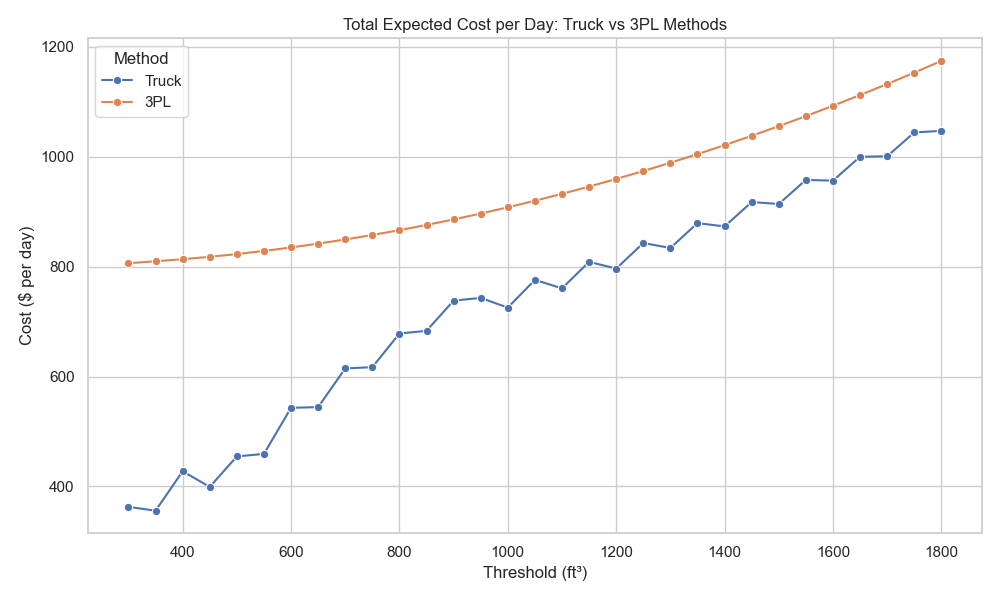
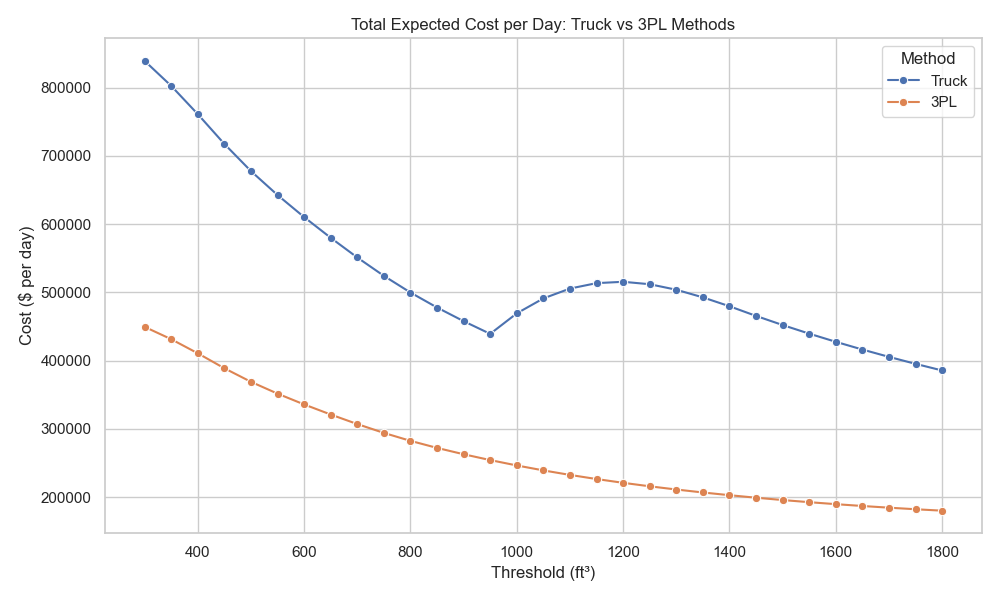
added costing and visualization for 3

diff --git a/get_cost_for_matrix.py b/get_cost_for_matrix.py
@@ -1,7 +1,15 @@
 import numpy as np
 import pandas as pd
 from scipy.stats import poisson
-
+import create_threshold_matrix as cvp
+import itertools
+from itertools import product
+# Calculate volume probabilities for orders
+volume_probabilities = {}
+for i in range(1, 4):
+    # Calculate volume probabilities for the current order
+    volume_probabilities[i] = cvp.compute_volume_probabilities(i)
+    print(f"Volume probabilities for {i} orders: {volume_probabilities[i]}")
 def compute_steady_state_from_csv(csv_file, output_file="steady_state_probabilities.csv"):
     # Read the transition matrix from CSV
     df = pd.read_csv(csv_file, index_col=0)  # First column is index (states)
@@ -70,8 +78,8 @@ def calculate_holding_cost(steady_state_csv, threshold, holding_cost_per_unit):
     cycle_length = threshold / (orders_per_day * volume_per_order)
     total_holding_cost = total_holding_cost_per_day * cycle_length
 
-    # print(f"\nTotal Expected Holding Cost per Day: {total_holding_cost:.6f}")
-    return total_holding_cost
+    print(f"\nTotal Expected Holding Cost per Day: {total_holding_cost/cycle_length:.6f}")
+    return total_holding_cost_per_day
 
 def compute_truck_cost(steady_state_csv, threshold, truck_1_cost, truck_2_cost, truck_1_capacity=900, truck_2_capacity=1800):
     # Read the steady-state probabilities from CSV
@@ -83,22 +91,34 @@ def compute_truck_cost(steady_state_csv, threshold, truck_1_cost, truck_2_cost, 
         raise ValueError(f"Expected 37 states, got {len(pi)}")
     
     # Define states (inventory levels)
-    states = np.arange(0, 1850, 50)  # 0, 50, 100, ..., 1800
-    
-    cost = 0
-    for state in states:
-        lower = threshold - state
-        upper = truck_1_capacity - state
+    states = np.arange(threshold-450, threshold-49, 50)
+    possible_orders = np.arange(50, 451, 50)  # 0, 50, 100, ..., 450
+    print(f"States: {states}")
+    print(f"Orders: {possible_orders}")
+    p_orders = poisson.pmf([0, 1, 2, 3], 2)
+    p_orders[3] = 1 - sum(p_orders[:3])  # Adjust P(N=3) for cap
 
-        if lower <= state and upper >= state:
-            truck_cost = truck_1_cost
-        elif lower < state and upper < state:
-            truck_cost = truck_2_cost
-        else:
-            truck_cost = 0
-        cost += pi[int(state / 50)] * truck_cost
-    # print(f"\nTotal Expected Truck Cost per Day: {cost:.6f}")
-    return cost
+    cost = 0
+
+    for state in states:
+        for posible_order in possible_orders:
+            if state + posible_order >= threshold:
+                # Calculate the cost based on the truck capacity
+                if state <= truck_1_capacity:
+                    truck_cost = truck_1_cost
+                elif state <= truck_2_capacity:
+                    truck_cost = truck_2_cost
+                else:
+                    truck_cost = 0
+                # Calculate the expected cost
+                cost += (pi[int(state / 50)] * state + posible_order * (volume_probabilities[1].get(posible_order, 0) * p_orders[1] + volume_probabilities[2].get(posible_order, 0) * p_orders[2] + volume_probabilities[3].get(posible_order, 0) * p_orders[3])) * truck_cost
+    
+    
+    orders_per_day = (1 * p_orders[1] + 2 * p_orders[2] + 3 * p_orders[3])
+    volume_per_order = 0.3 * 50 + 0.5 * 100 + 0.2 * 150
+    cycle_length = threshold / (orders_per_day * volume_per_order)
+    cost_per_day = cost / cycle_length
+    return cost_per_day
 
 def variable_3pl_shipping_cost(steady_state_csv, variable_shipment_cost, threshold):
     # Read the steady-state probabilities from CSV
@@ -107,15 +127,33 @@ def variable_3pl_shipping_cost(steady_state_csv, variable_shipment_cost, thresho
     # Verify length
     if len(pi) != 37:
         raise ValueError(f"Expected 37 states, got {len(pi)}")
+        
     # Define states (inventory levels)
-    states = np.arange(0, 1850, 50)  # 0, 50, 100, ..., 1800
+    states = np.arange(threshold-450, threshold-49, 50)
+    print(f"States: {states}")
+    orders = np.arange(50, 451, 50)  # 0, 50, 100, ..., 450
+    print(f"Orders: {orders}")
+        
     cost = 0
+    p_orders = poisson.pmf([0, 1, 2, 3], 2)
+    p_orders[3] = 1 - sum(p_orders[:3])  # Adjust P(N=3) for cap
     # Calculate variable shipping cost: pi * state * variable_shipment_cost
-    for state in states:
-        if state >= threshold:
-            cost += variable_shipment_cost * state * pi[int(state / 50)]
-    # print(f"\nTotal Expected Variable Shipping Cost per Day: {cost:.6f}")
-    return cost
+    for i in range(len(states)):
+        state = states[i]
+        for j in range(len(orders)):
+            order = orders[j]
+            if state + order >= threshold:
+                # print(f"probability of {order}: {volume_probabilities[1].get(order, 0) + volume_probabilities[2].get(order, 0) + volume_probabilities[3].get(order, 0)}")
+                # print(pi[int(state // 50)], state, order)
+                cost += ((pi[int(state // 50)]*state) + order * (volume_probabilities[1].get(order, 0) * p_orders[1] + volume_probabilities[2].get(order, 0) * p_orders[2] + volume_probabilities[3].get(order, 0) * p_orders[3])) * variable_shipment_cost
+                print(pi[int(state // 50)], state, order)
+    print(f"\nTotal Expected Variable Shipping Cost per Day: {cost:.6f}")
+    
+    orders_per_day = (1 * p_orders[1] + 2 * p_orders[2] + 3 * p_orders[3])
+    volume_per_order = 0.3 * 50 + 0.5 * 100 + 0.2 * 150
+    cycle_length = threshold / (orders_per_day * volume_per_order)
+    print(f"cost per cycle {cost / cycle_length}")
+    return cost / cycle_length
 
 def compute_total_cost_truck_method(threshold):
     # Example truck costs
@@ -134,25 +172,30 @@ def compute_total_cost_truck_method(threshold):
     return total_cost
 
 def compute_total_cost_3pl_method(threshold):
-    fixed_shipment_cost = 800
-    variable_shipment_cost = 15/35.315  # Example variable shipment cost in $/ft³
-    holding_cost_per_unit = 1.5/35.315  # Example holding cost per unit
+    p_orders = poisson.pmf([0, 1, 2, 3], 2)
+    p_orders[3] = 1 - sum(p_orders[:3])  # Adjust P(N=3) for cap
+    orders_per_day = (1 * p_orders[1] + 2 * p_orders[2] + 3 * p_orders[3])
+    volume_per_order = 0.3 * 50 + 0.5 * 100 + 0.2 * 150
+    cycle_length = threshold / (orders_per_day * volume_per_order)
+    fixed_shipment_cost = 800 / cycle_length  # Example fixed shipment cost in $/day
+    variable_shipment_cost = 15 * 35.3147  # Example variable shipment cost in $/ft³
+    holding_cost_per_unit = 1.5 * 35.3147  # Example holding cost per unit
 
     # Compute the holding cost
     holding_cost = calculate_holding_cost(f"Threshold_Matrix_Steady_States/steady_state_{threshold}.csv", threshold, holding_cost_per_unit)
     # print(f"\nTotal Expected Holding Cost per Day 3PL: {holding_cost:.6f}")
 
     # Compute the truck cost
-    variable_cost = variable_3pl_shipping_cost(f"Threshold_Matrix_Steady_States/steady_state_{threshold}.csv", variable_shipment_cost, threshold=threshold)
+    variable_cost = variable_3pl_shipping_cost(f"Threshold_Matrix_Steady_States/steady_state_{threshold}.csv", variable_shipment_cost, threshold)
     
     total_cost = holding_cost + variable_cost + fixed_shipment_cost
 
 
-    print(f"\nTotal Expected Cost per Day 3PL: {total_cost:.6f}")
+    print(f"\nTotal Expected Cost per Cycle 3PL: {total_cost:.6f}")
     return total_cost
 
 compute_total_cost_truck_method(900) # Example threshold
-compute_total_cost_3pl_method(900) # Example threshold
+# compute_total_cost_3pl_method(900) # Example threshold
 
 # Example usage
 # steady_state_csv = "Threshold_Matrix_Steady_States/steady_state_800.csv"  # Replace with your actual file

diff --git a/Cost_visualization.py b/Cost_visualization.py
@@ -13,6 +13,8 @@ pl_costs = []
 for threshold in thresholds:
     truck_costs.append(gcm.compute_total_cost_truck_method(threshold))
     pl_costs.append(gcm.compute_total_cost_3pl_method(threshold))
+print("Truck Costs:", truck_costs)
+print("3PL Costs:", pl_costs)
 
 # Create DataFrame for plotting
 data = pd.DataFrame({
